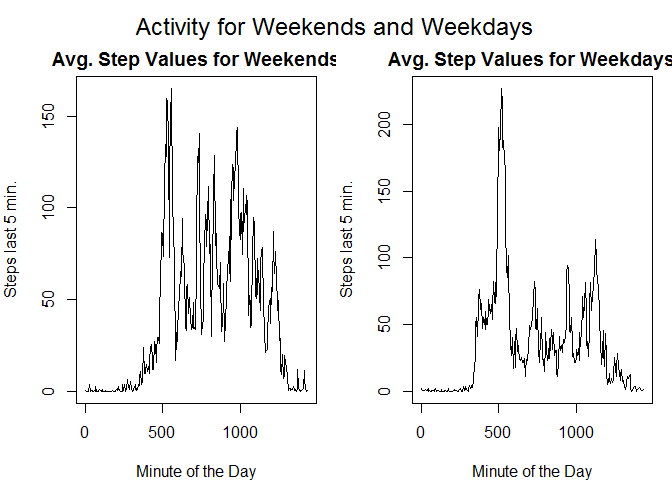
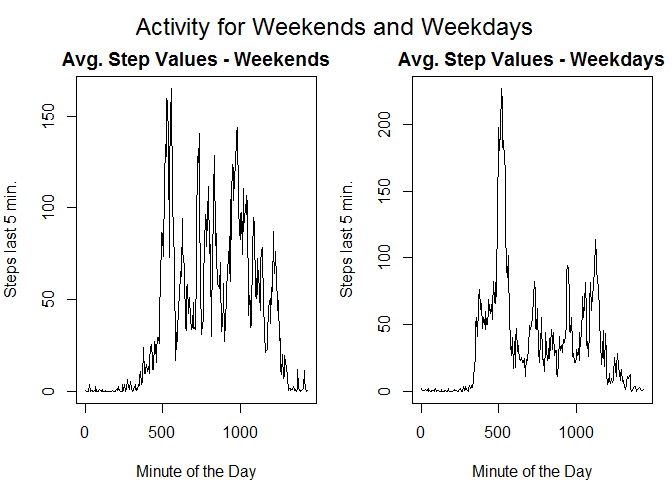
Final commit for 01/10/2016

Changed region(s): [[0.5625, 0.0938, 1.0, 0.1562], [0.0625, 0.0938, 0.5, 0.1562]]

diff --git a/PA1_template.html b/PA1_template.html
@@ -150,6 +150,7 @@ approxtime &lt;- avg[104,&quot;minutes&quot;]/60</code></pre>
     df1
 }
 
+totalNAs &lt;- sum(is.na(df[,1]))
 df2 &lt;- fillNAsWithMeans(df1,avg)
 dategrp &lt;- group_by(df2, date)
 sum2 &lt;- summarize(dategrp, stepsperday = sum(steps))
@@ -159,7 +160,7 @@ hist(sum2$stepsperday,col=&quot;green&quot;,breaks=12,xlab=&quot;Steps per Day&q
 <pre class="r"><code>avgdailystepsimputed &lt;- mean(sum2$stepsperday)
 
 mediandailystepsimputed &lt;- median(sum2$stepsperday)</code></pre>
-<p>The effect of imputing data was to raise the mean of the step count per day. In the first analysis where missing values were ignored, the mean was 9354.23. In this second analysis with imputed values, the mean was about 10581. The median was the same in both analyses, with a value of 10395.</p>
+<p>Before imputing values, the number of observations with missing values was 2304. The effect of imputing data was to raise the mean of the step count per day. In the first analysis where missing values were ignored, the mean was 9354.23. In this second analysis with imputed values, the mean was about 10581. The median was the same in both analyses, with a value of 10395.</p>
 </div>
 <div id="are-there-differences-in-activity-patterns-between-weekdays-and-weekends" class="section level2">
 <h2>Are there differences in activity patterns between weekdays and weekends?</h2>
@@ -200,14 +201,14 @@ par(mfrow=c(1,2), mar = c(4,4,2,1), oma = c(0,0,2,0))
 
 plot(weekendavg$minutes,weekendavg$stepavg,type=&quot;l&quot;, xlim=c(-1,1440),
      ylab=&quot;Steps last 5 min.&quot;,xlab=&quot;Minute of the Day&quot;,
-     main=&quot;Avg. Step Values for Weekends&quot;,cex.main=1.2)
+     main=&quot;Avg. Step Values - Weekends&quot;,cex.main=1.2)
 
 plot(weekdayavg$minutes, weekdayavg$stepavg,type=&quot;l&quot;,xlim=c(-1,1440),
      ylab=&quot;Steps last 5 min.&quot;, xlab=&quot;Minute of the Day&quot;,
-     main=&quot;Avg. Step Values for Weekdays&quot;,cex.main=1.2)
+     main=&quot;Avg. Step Values - Weekdays&quot;,cex.main=1.2)
 
 mtext(&quot;Activity for Weekends and Weekdays&quot;, outer=TRUE, cex=1.5)</code></pre>
[2 lines of base64/hex data omitted]
 <pre class="r"><code>overhundredperiod_weekend &lt;- which(weekendavg$stepavg &gt; 100)
 approxtime_weekend &lt;- weekendavg[overhundredperiod_weekend,&quot;minutes&quot;]/60
 overhundredperiod_weekday &lt;- which(weekdayavg$stepavg &gt; 100)

diff --git a/PA1_template.md b/PA1_template.md
@@ -125,6 +125,7 @@ fillNAsWithMeans <- function(df1, df2) {
     df1
 }
 
+totalNAs <- sum(is.na(df[,1]))
 df2 <- fillNAsWithMeans(df1,avg)
 dategrp <- group_by(df2, date)
 sum2 <- summarize(dategrp, stepsperday = sum(steps))
@@ -140,6 +141,7 @@ avgdailystepsimputed <- mean(sum2$stepsperday)
 mediandailystepsimputed <- median(sum2$stepsperday)
 ```
 
+Before imputing values, the number of observations with missing values was 2304.
 The effect of imputing data was to raise the mean of the step count per day. In the first analysis where missing values were ignored, the mean was 9354.23. In this second analysis with imputed values, the mean was about 10581. The median was the same in both analyses, with a value of 10395.
 
 
@@ -184,11 +186,11 @@ par(mfrow=c(1,2), mar = c(4,4,2,1), oma = c(0,0,2,0))
 
 plot(weekendavg$minutes,weekendavg$stepavg,type="l", xlim=c(-1,1440),
      ylab="Steps last 5 min.",xlab="Minute of the Day",
-     main="Avg. Step Values for Weekends",cex.main=1.2)
+     main="Avg. Step Values - Weekends",cex.main=1.2)
 
 plot(weekdayavg$minutes, weekdayavg$stepavg,type="l",xlim=c(-1,1440),
      ylab="Steps last 5 min.", xlab="Minute of the Day",
-     main="Avg. Step Values for Weekdays",cex.main=1.2)
+     main="Avg. Step Values - Weekdays",cex.main=1.2)
 
 mtext("Activity for Weekends and Weekdays", outer=TRUE, cex=1.5)
 ```
